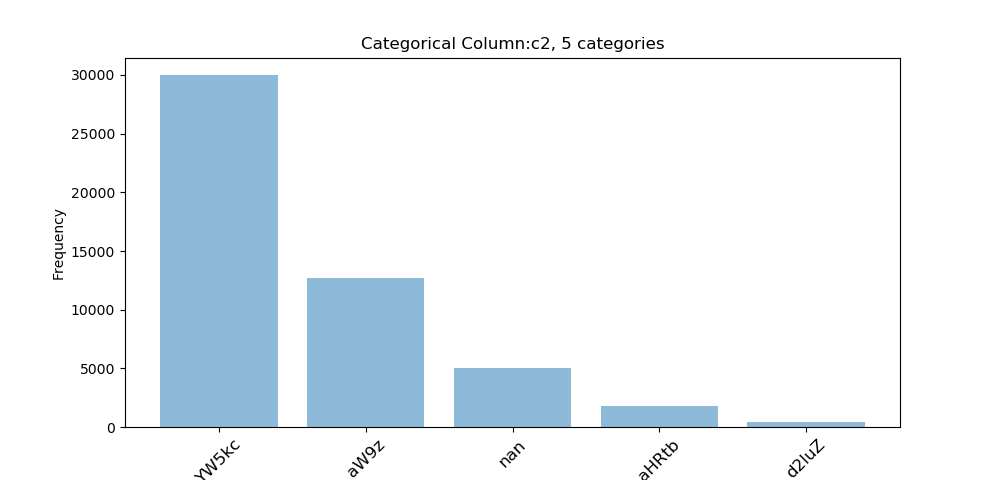
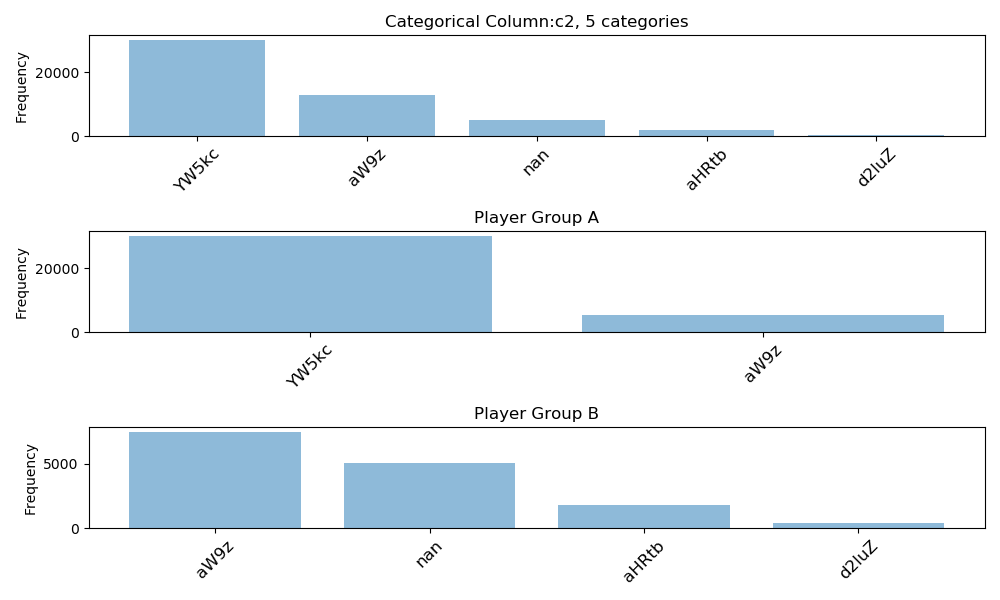
Visualization Updated

diff --git a/dataset.py b/dataset.py
@@ -88,34 +88,113 @@ class Dataset:
         self.independentVariables.extend(self.categoricalColumns)
         self.independentVariables.extend(self.numericalColumns)
 
-    def data_exploration(self):
-        # Categorical variables
-        limit_ratio = 0.003
+    @staticmethod
+    def draw_categorical_data_histogram(series, limit_ratio=0.003):
+        # Trim to fit into a single image, if there are too many categories
+        if len(series) > 10:
+            total_freq = series.sum()
+            trimmed_series = series[series >= int(total_freq * limit_ratio)]
+            others_total_freq = series[series < int(total_freq * limit_ratio)].sum()
+            columns = [str(x) for x in trimmed_series.index.to_list()]
+            values = trimmed_series.values.tolist()
+            if len(series[series < int(total_freq * limit_ratio)]) > 0:
+                columns.append("{0} others".format(len(series[series < int(total_freq * limit_ratio)])))
+                values.append(others_total_freq)
+        else:
+            columns = [str(x) for x in series.index.to_list()]
+            values = series.values.tolist()
+        y_pos = np.arange(len(columns))
+        plt.bar(y_pos, values, align='center', alpha=0.5)
+        fontsize = "7" if "others" in columns[-1] else "12"
+        plt.xticks(y_pos, columns, fontsize=fontsize, rotation=45)
+        plt.ylabel('Frequency')
+
+    @staticmethod
+    def determine_histogram_bins(bin_count, min_val, max_val):
+        _range = max_val - min_val
+        # min_limit = min_val - 0.0001*min_val
+        # max_limit = max_val + 0.0001*max_val
+        bin_length = (max_val - min_val) / bin_count
+        bins_ = np.arange(min_val, max_val + bin_length, bin_length)
+        # min_bin_length = (max_val - min_val) / max_bin_count
+        # unit_size = 10 ** int(np.log10(min_bin_length))
+        # bin_length = ((min_bin_length // unit_size) + 1) * unit_size
+        # if bin_length > 1.0:
+        #     bin_length = int(bin_length)
+        #     max_bin_limit = int(((max_val // bin_length) + 1) * bin_length)
+        #     min_bin_limit = int((min_val // bin_length) * bin_length)
+        # else:
+        #     max_bin_limit = ((max_val // bin_length) + 1) * bin_length
+        #     min_bin_limit = (min_val // bin_length) * bin_length
+        # bins_ = np.arange(min_bin_limit, max_bin_limit + bin_length, bin_length)
+        return bins_
+
+    @staticmethod
+    def draw_numerical_data_histogram(ax, num_col, series,
+                                      very_small_threshold, very_large_threshold,
+                                      max_bin_count, post_fix=None):
+        descriptive_statistics = {
+            "min": [series.min()],
+            "max": [series.max()],
+            "mean": [series.mean()],
+            "median": [series.median()],
+            "std": [series.std()],
+            "% of nan": [100.0 * series.isna().sum() / len(series)]}
+        max_val = descriptive_statistics["max"][0]
+        min_val = descriptive_statistics["min"][0]
+        if very_small_threshold < min_val and max_val < very_large_threshold:
+            bins = Dataset.determine_histogram_bins(max_bin_count, min_val, max_val)
+            title = "Numerical column {0} histogram".format(num_col)
+        else:
+            trimmed_series = series.copy(deep=True)
+            trimmed_series = trimmed_series[trimmed_series <= very_large_threshold]
+            trimmed_series = trimmed_series[trimmed_series >= very_small_threshold]
+            # trimmed_series[series < very_small_threshold] = 1.5 * very_small_threshold
+            max_val = trimmed_series.max()
+            min_val = trimmed_series.min()
+            bins = Dataset.determine_histogram_bins(max_bin_count, min_val, max_val)
+            title = "Numerical column {0} histogram. Showing %{1:.2f} of data.".format(
+                num_col,
+                100.0 * len(trimmed_series) / len(series))
+        ax = series.hist(bins=bins, grid=False, zorder=2, rwidth=0.9, ax=ax)
+        ax.set_title(title if post_fix is None else title + " " + post_fix)
+        vals = ax.get_yticks()
+        for tick in vals:
+            ax.axhline(y=tick, linestyle='dashed', alpha=0.4, color='#eeeeee', zorder=1)
+        # Set y-axis label
+        ax.set_ylabel("Frequency", labelpad=20, weight='bold', size=12)
+        plt.xticks(bins, fontsize=8, rotation=45)
+        tpls = [(k, "{0:.2f}".format(v[0])) for k, v in descriptive_statistics.items()]
+        plt.table(cellText=[[tpl[1] for tpl in tpls]],
+                  colWidths=[0.15] * len(descriptive_statistics),
+                  rowLabels=None,
+                  colLabels=[tpl[0] for tpl in tpls],
+                  cellLoc='center',
+                  rowLoc='center',
+                  loc='upper right')
+
+    def plot_categorical_variables(self):
         for cat_col in self.categoricalColumns:
-            plt.figure(figsize=(10.0, 4.8))
+            plt.figure(figsize=(10.0, 6))
+            # Draw histograms for the whole data, group A and group B.
+            ax = plt.subplot(3, 1, 1)
             series = self.mainDataFrame[cat_col].value_counts(dropna=False)
-            # Trim to fit into a single image, if there are too many categories
-            if len(series) > 10:
-                total_freq = series.sum()
-                trimmed_series = series[series >= int(total_freq * limit_ratio)]
-                others_total_freq = series[series < int(total_freq * limit_ratio)].sum()
-                columns = [str(x) for x in trimmed_series.index.to_list()]
-                values = trimmed_series.values.tolist()
-                if len(series[series < int(total_freq * limit_ratio)]) > 0:
-                    columns.append("{0} others".format(len(series[series < int(total_freq * limit_ratio)])))
-                    values.append(others_total_freq)
-            else:
-                columns = [str(x) for x in series.index.to_list()]
-                values = series.values.tolist()
-            y_pos = np.arange(len(columns))
-            plt.bar(y_pos, values, align='center', alpha=0.5)
-            fontsize = "7" if "others" in columns[-1] else "12"
-            plt.xticks(y_pos, columns, fontsize=fontsize, rotation=45)
-            plt.ylabel('Frequency')
             plt.title("Categorical Column:{0}, {1} categories".format(cat_col, len(series)))
+            Dataset.draw_categorical_data_histogram(series=series)
+            ax = plt.subplot(3, 1, 2)
+            series = self.mainDataFrame[self.mainDataFrame.player_group == "A"][cat_col].value_counts(dropna=False)
+            ax.set_title("Player Group A")
+            Dataset.draw_categorical_data_histogram(series=series)
+            ax = plt.subplot(3, 1, 3)
+            ax.set_title("Player Group B")
+            series = self.mainDataFrame[self.mainDataFrame.player_group == "B"][cat_col].value_counts(dropna=False)
+            Dataset.draw_categorical_data_histogram(series=series)
+            plt.tight_layout()
             plt.savefig("{0}_bars.png".format(cat_col))
             plt.show()
+            print("X")
 
+    def plot_numerical_variables(self):
         num_columns = []
         num_columns.extend(self.numericalColumns)
         num_columns.extend(self.targetColumns)
@@ -123,60 +202,33 @@ class Dataset:
         max_bin_count = 50
         very_large_threshold = 10e9
         very_small_threshold = -10e9
-
-        def determine_histogram_bins(min_, max_):
-            min_bin_length = (max_ - min_) / max_bin_count
-            unit_size = 10 ** int(np.log10(min_bin_length))
-            bin_length = int(((min_bin_length // unit_size) + 1) * unit_size)
-            max_bin_limit = int(((max_val // bin_length) + 1) * bin_length)
-            min_bin_limit = int((min_val // bin_length) * bin_length)
-            bins_ = list(range(min_bin_limit, max_bin_limit + bin_length, bin_length))
-            return bins_
-
         for num_col in num_columns:
-            plt.figure(figsize=(10.0, 4.8))
+            plt.figure(figsize=(10.0, 8))
+            ax = plt.subplot(3, 1, 1)
             series = self.mainDataFrame[num_col]
-            descriptive_statistics = {
-                "min": [series.min()],
-                "max": [series.max()],
-                "mean": [series.mean()],
-                "median": [series.median()],
-                "std": [series.std()],
-                "% of nan": [100.0 * series.isna().sum() / len(series)]}
-            max_val = descriptive_statistics["max"][0]
-            min_val = descriptive_statistics["min"][0]
-            if very_small_threshold < min_val and max_val < very_large_threshold:
-                bins = determine_histogram_bins(min_val, max_val)
-                title = "Numerical column {0} histogram".format(num_col)
-            else:
-                trimmed_series = series.copy(deep=True)
-                trimmed_series = trimmed_series[trimmed_series <= very_large_threshold]
-                trimmed_series = trimmed_series[trimmed_series >= very_small_threshold]
-                # trimmed_series[series < very_small_threshold] = 1.5 * very_small_threshold
-                max_val = trimmed_series.max()
-                min_val = trimmed_series.min()
-                bins = determine_histogram_bins(min_val, max_val)
-                title = "Numerical column {0} histogram. Showing %{1:.2f} of data.".format(
-                    num_col,
-                    100.0 * len(trimmed_series) / len(series))
-            ax = series.hist(bins=bins, grid=False, zorder=2, rwidth=0.9)
-            ax.set_title(title)
-            vals = ax.get_yticks()
-            for tick in vals:
-                ax.axhline(y=tick, linestyle='dashed', alpha=0.4, color='#eeeeee', zorder=1)
-            # Set y-axis label
-            ax.set_ylabel("Frequency", labelpad=20, weight='bold', size=12)
-            plt.xticks(bins, fontsize=8, rotation=45)
-            tpls = [(k, "{0:.2f}".format(v[0])) for k, v in descriptive_statistics.items()]
-            plt.table(cellText=[[tpl[1] for tpl in tpls]],
-                      colWidths=[0.15] * len(descriptive_statistics),
-                      rowLabels=None,
-                      colLabels=[tpl[0] for tpl in tpls],
-                      cellLoc='center',
-                      rowLoc='center',
-                      loc='upper right')
+            Dataset.draw_numerical_data_histogram(ax=ax, num_col=num_col, series=series,
+                                                  very_small_threshold=very_small_threshold,
+                                                  very_large_threshold=very_large_threshold,
+                                                  max_bin_count=max_bin_count)
+            ax = plt.subplot(3, 1, 2)
+            series = self.mainDataFrame[self.mainDataFrame.player_group == "A"][num_col]
+            Dataset.draw_numerical_data_histogram(ax=ax, num_col=num_col, series=series,
+                                                  very_small_threshold=very_small_threshold,
+                                                  very_large_threshold=very_large_threshold,
+                                                  max_bin_count=max_bin_count,
+                                                  post_fix="(Player Group A)")
+            ax = plt.subplot(3, 1, 3)
+            series = self.mainDataFrame[self.mainDataFrame.player_group == "B"][num_col]
+            Dataset.draw_numerical_data_histogram(ax=ax, num_col=num_col, series=series,
+                                                  very_small_threshold=very_small_threshold,
+                                                  very_large_threshold=very_large_threshold,
+                                                  max_bin_count=max_bin_count,
+                                                  post_fix="(Player Group B)")
+            plt.tight_layout()
             plt.savefig("{0}_hist.png".format(num_col))
             plt.show()
-        print("X")
+            print("X")
 
-
+    def data_exploration(self):
+        self.plot_categorical_variables()
+        self.plot_numerical_variables()

diff --git a/main.py b/main.py
@@ -9,9 +9,12 @@ if __name__ == "__main__":
                       ("n14", "A"): "log",
                       ("n14", "B"): "identity"}
     dataset = Dataset("toydata_mltest.csv")
-    dataset.data_exploration()
-    recommender = Recommender(dataset=dataset, target_scaling=target_scaling)
-    recommender.train_regressors()
+    # dataset.plot_categorical_variables()
+    dataset.plot_numerical_variables()
+
+    # dataset.data_exploration()
+    # recommender = Recommender(dataset=dataset, target_scaling=target_scaling)
+    # recommender.train_regressors()
     # # dataset.data_exploration()
     # # dataset.prepare_dataset_v2()
     # # dataset.data_exploration()
